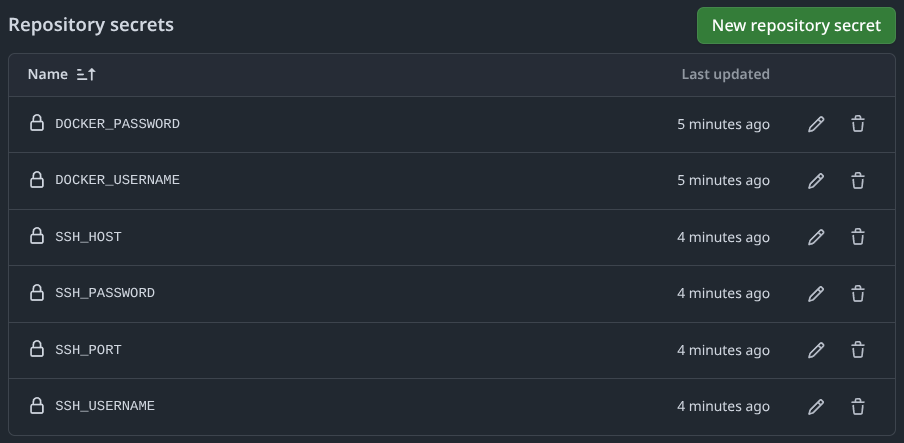
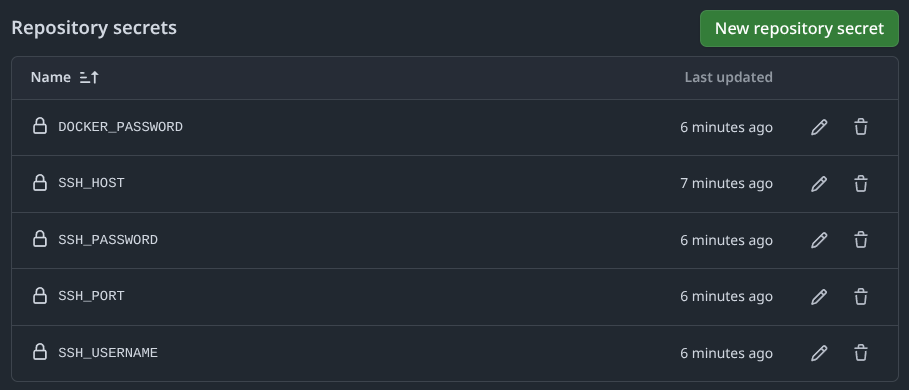
2. Updated README.md

diff --git a/README.md b/README.md
@@ -24,15 +24,16 @@ This repository demonstrates a complete CI/CD pipeline for a simple Flask applic
 
 #### Configure GitHub Secrets:
    - Navigate to your repository > Settings > Secrets and variables > Actions
-   - Add the following secrets:
-     - `DOCKER_USERNAME`: Your Docker Hub username
-     - `DOCKER_PASSWORD`: Your Docker Hub password or access token
+   - Add the following secrets and variable:
+     - `DOCKER_USERNAME`: Your Docker Hub username as variable
+     - `DOCKER_PASSWORD`: Your Docker Hub password or access token as secret
      - `SSH_HOST`: Your server's IP address
      - `SSH_USERNAME`: Your server's SSH username
      - `SSH_PASSWORD`: Your SSH password
      - `SSH_PORT`: Your SSH port (usually 22)
 
-### Screenshot of GitHub Secrets Configuration
+### Screenshot of GitHub Variable and Secrets Configuration
+![Variables](./img/variables.png)
 ![Secrets](./img/secrets.png)
 
 ## CI/CD Pipeline Explanation
@@ -53,7 +54,7 @@ The CI/CD pipeline is defined in `.github/workflows/deploy.yml` and consists of 
    - Runs a new container with the updated image
 
 ### Screenshot of GitHub Actions Workflow Execution
-<!-- [Will add screenshot here] -->
+![Workflow](./img/workflow.png)
 
 ## Assumptions and Limitations
 
@@ -75,4 +76,4 @@ After pushing changes to the main branch:
 2. Once the workflow succeeds, visit http://your-server-ip:5000 to see your deployed application.
 
 ### Screenshot of Deployed Application
-<!-- [Will add screenshot here] -->
+![Website](./img/website.png)
